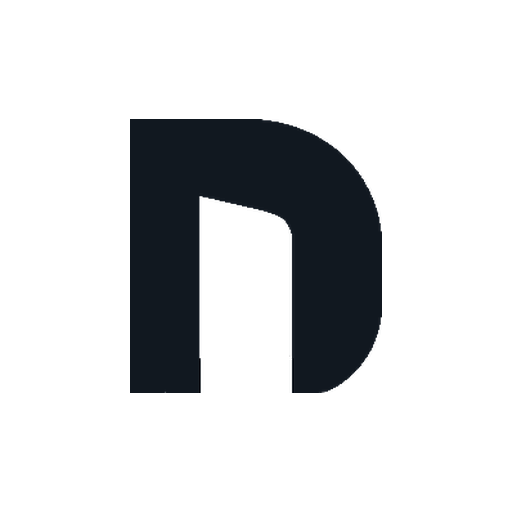
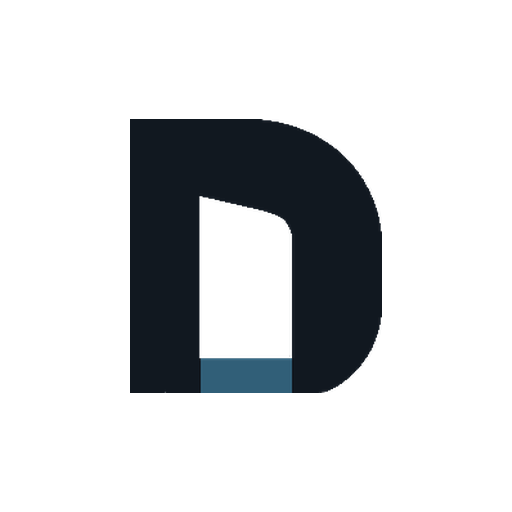
fix: use visible medium navy brand threshold

Changed region(s): [[0.375, 0.6875, 0.5938, 0.7812]]

diff --git a/src/app/root/page.tsx b/src/app/root/page.tsx
@@ -40,23 +40,23 @@ export default async function Root({searchParams}:{searchParams:Promise<{tenant?
   const selectedTenant=tenants.find(tenant=>tenant.id===selected);
   return <main className="min-h-screen bg-[#f3f7fa] pb-20 text-[#142334]">
     <header className="bg-[#101e30] text-white"><div className="container flex min-h-20 flex-wrap items-center justify-between gap-3 py-4"><Link href="/root" className="rounded-xl bg-white px-3 py-2"><DukenimLogo compact/></Link><div className="flex items-center gap-3"><span className="text-sm font-semibold text-white/75">Центр владельца платформы</span><span className="rounded-full border border-sky-300/30 bg-sky-300/10 px-3 py-1 text-xs font-bold text-sky-200">ERSAT · SUPERADMIN</span></div></div></header>
-    <div className="container py-8 md:py-12"><div className="flex flex-wrap items-end justify-between gap-4"><div><p className="text-xs font-extrabold uppercase tracking-[.18em] text-[#416888]">DUKENIM · УПРАВЛЕНИЕ</p><h1 className="mt-2 text-4xl font-extrabold tracking-tight md:text-5xl">Вся платформа перед вами</h1><p className="mt-3 max-w-2xl text-sm leading-6 text-slate-600">Магазины, заказы и обращения в одном рабочем месте. Суммы ниже рассчитаны по статусу «оплачено» в Dukenim; фактическое поступление денег проверяйте у провайдера.</p></div><a href="#stores" className="inline-flex items-center gap-2 rounded-xl bg-[#173b57] px-5 py-3 text-sm font-bold text-white">Открыть магазины <ArrowRight size={16}/></a></div>
+    <div className="container py-8 md:py-12"><div className="flex flex-wrap items-end justify-between gap-4"><div><p className="text-xs font-extrabold uppercase tracking-[.18em] text-[#416888]">DUKENIM · УПРАВЛЕНИЕ</p><h1 className="mt-2 text-4xl font-extrabold tracking-tight md:text-5xl">Вся платформа перед вами</h1><p className="mt-3 max-w-2xl text-sm leading-6 text-slate-600">Магазины, заказы и обращения в одном рабочем месте. Суммы ниже рассчитаны по статусу «оплачено» в Dukenim; фактическое поступление денег проверяйте у провайдера.</p></div><a href="#stores" className="inline-flex items-center gap-2 rounded-xl bg-[#315f78] px-5 py-3 text-sm font-bold text-white">Открыть магазины <ArrowRight size={16}/></a></div>
       <section className="mt-8 grid gap-3 sm:grid-cols-2 xl:grid-cols-4" aria-label="Показатели платформы">{[
         ["Магазинов",String(tenants.length),Building2,"Все аккаунты магазинов"],
         ["Активных",String(tenants.filter(tenant=>tenant.status==="active").length),Activity,"Доступ сейчас открыт"],
         ["Отмечено оплаченным",money(paidTotal),CircleDollarSign,"Среди последних 500 заказов"],
         ["Обращений в работе",String(openRequests.length),MessageSquare,"Среди последних 100 заявок"],
       ].map(([label,value,Icon,note])=>{const Symbol=Icon as typeof Building2;return <article key={String(label)} className="rounded-2xl border border-slate-200 bg-white p-5 shadow-sm"><div className="flex items-center justify-between text-slate-500"><span className="text-xs font-bold uppercase tracking-wider">{String(label)}</span><Symbol size={19} className="text-[#366f99]"/></div><b className="mt-6 block text-3xl tabular-nums">{String(value)}</b><p className="mt-2 text-xs text-slate-500">{String(note)}</p></article>})}</section>
-      <section className="mt-10"><div className="flex items-center justify-between"><h2 className="text-2xl font-extrabold">Разделы управления</h2><Link href="/root/management" className="text-sm font-bold text-[#173b57] underline">Все возможности</Link></div><div className="mt-4 grid gap-3 sm:grid-cols-2 xl:grid-cols-4">{destinations.map(({href,label,detail,icon:Icon})=><Link key={href} href={href} className="group flex min-h-32 flex-col justify-between rounded-2xl border border-slate-200 bg-white p-5 shadow-sm transition hover:-translate-y-0.5 hover:border-sky-400 hover:shadow-md"><div className="flex items-start justify-between"><Icon size={22} className="text-[#366f99]"/><ArrowUpRight size={17} className="text-slate-400 group-hover:text-[#173b57]"/></div><div><b className="block text-base">{label}</b><small className="mt-1 block text-slate-500">{detail}</small></div></Link>)}</div></section>
+      <section className="mt-10"><div className="flex items-center justify-between"><h2 className="text-2xl font-extrabold">Разделы управления</h2><Link href="/root/management" className="text-sm font-bold text-[#315f78] underline">Все возможности</Link></div><div className="mt-4 grid gap-3 sm:grid-cols-2 xl:grid-cols-4">{destinations.map(({href,label,detail,icon:Icon})=><Link key={href} href={href} className="group flex min-h-32 flex-col justify-between rounded-2xl border border-slate-200 bg-white p-5 shadow-sm transition hover:-translate-y-0.5 hover:border-sky-400 hover:shadow-md"><div className="flex items-start justify-between"><Icon size={22} className="text-[#366f99]"/><ArrowUpRight size={17} className="text-slate-400 group-hover:text-[#315f78]"/></div><div><b className="block text-base">{label}</b><small className="mt-1 block text-slate-500">{detail}</small></div></Link>)}</div></section>
       <div className="mt-10 grid gap-6 xl:grid-cols-[minmax(0,1.35fr)_minmax(290px,.65fr)]">
-        <section id="stores" className="rounded-2xl border border-slate-200 bg-white p-5 shadow-sm md:p-6"><div className="flex flex-wrap items-end justify-between gap-3"><div><p className="text-xs font-bold uppercase tracking-wider text-[#416888]">МАГАЗИНЫ</p><h2 className="mt-1 text-2xl font-extrabold">Список магазинов</h2></div><span className="rounded-full bg-sky-50 px-3 py-1 text-xs font-bold text-[#173b57]">{tenants.length} всего</span></div><div className="mt-5 divide-y divide-slate-100">{tenants.length?tenants.map(tenant=>{const tenantPaid=paid.filter(order=>order.tenant_id===tenant.id);return <article key={tenant.id} className="grid gap-3 py-4 md:grid-cols-[minmax(0,1fr)_auto] md:items-center"><div><div className="flex flex-wrap items-center gap-2"><b className="text-base">{tenant.name}</b><span className="rounded-full bg-slate-100 px-2 py-1 text-xs font-semibold text-slate-600">{statusLabel[tenant.status]??tenant.status}</span></div><p className="mt-1 text-xs text-slate-500">/s/{tenant.slug} · {tenant.plan==="basic"?"Старт":"Бренд"} · оплачено {money(tenantPaid.reduce((sum,order)=>sum+order.total,0))} среди последних 500 заказов</p></div><div className="flex flex-wrap gap-2"><Link href={`/root/stores/${tenant.id}`} className="inline-flex min-h-11 items-center justify-center gap-2 rounded-xl border border-sky-200 px-4 py-2 text-sm font-bold text-[#173b57] hover:bg-sky-50">Управлять <ArrowRight size={15}/></Link><Link href={`/root?tenant=${tenant.id}#support`} className="inline-flex min-h-11 items-center justify-center gap-2 rounded-xl border border-slate-200 px-4 py-2 text-sm font-bold text-[#173b57] hover:bg-slate-50">Чат</Link></div><details className="md:col-span-2"><summary className="cursor-pointer text-xs font-semibold text-slate-500">Тариф и состояние магазина</summary><form action={updateStore} className="mt-3 flex flex-wrap items-end gap-2 rounded-xl bg-slate-50 p-3"><input type="hidden" name="tenantId" value={tenant.id}/><label className="text-xs font-semibold">Тариф<select name="plan" defaultValue={tenant.plan} className="input mt-1 min-w-32"><option value="basic">Старт</option><option value="standard">Бренд</option><option value="pro">Бренд (legacy)</option></select></label><label className="text-xs font-semibold">Состояние<select name="status" defaultValue={tenant.status} className="input mt-1 min-w-36"><option value="active">Активен</option><option value="paused">Пауза</option><option value="trial">Пробный период</option></select></label><label className="min-w-44 flex-1 text-xs font-semibold">Причина<input name="reason" required minLength={3} className="input mt-1" placeholder="Причина изменения"/></label><button className="btn btn-cta">Сохранить</button></form></details></article>}) : <p className="py-8 text-sm text-slate-500">Магазинов пока нет.</p>}</div></section>
-        <aside className="space-y-6"><section className="rounded-2xl border border-slate-200 bg-white p-5 shadow-sm"><div className="flex items-center gap-2"><Headphones className="text-[#366f99]" size={22}/><h2 className="text-xl font-extrabold">Обращения</h2></div><p className="mt-2 text-sm text-slate-500">Каждое обращение открывается как отдельный диалог.</p><div className="mt-4 divide-y divide-slate-100">{openRequests.slice(0,6).map(request=><Link key={request.id} href={`/root/requests/${request.id}`} className="block py-3 hover:text-[#173b57]"><b className="line-clamp-1 text-sm">{request.subject}</b><small className="mt-1 block text-slate-500">{tenants.find(tenant=>tenant.id===request.tenant_id)?.name??"Магазин"} · {request.status==="new"?"Новое":"В работе"}</small></Link>)}{!openRequests.length&&<p className="py-4 text-sm text-slate-500">Новых обращений нет.</p>}</div></section>
+        <section id="stores" className="rounded-2xl border border-slate-200 bg-white p-5 shadow-sm md:p-6"><div className="flex flex-wrap items-end justify-between gap-3"><div><p className="text-xs font-bold uppercase tracking-wider text-[#416888]">МАГАЗИНЫ</p><h2 className="mt-1 text-2xl font-extrabold">Список магазинов</h2></div><span className="rounded-full bg-sky-50 px-3 py-1 text-xs font-bold text-[#315f78]">{tenants.length} всего</span></div><div className="mt-5 divide-y divide-slate-100">{tenants.length?tenants.map(tenant=>{const tenantPaid=paid.filter(order=>order.tenant_id===tenant.id);return <article key={tenant.id} className="grid gap-3 py-4 md:grid-cols-[minmax(0,1fr)_auto] md:items-center"><div><div className="flex flex-wrap items-center gap-2"><b className="text-base">{tenant.name}</b><span className="rounded-full bg-slate-100 px-2 py-1 text-xs font-semibold text-slate-600">{statusLabel[tenant.status]??tenant.status}</span></div><p className="mt-1 text-xs text-slate-500">/s/{tenant.slug} · {tenant.plan==="basic"?"Старт":"Бренд"} · оплачено {money(tenantPaid.reduce((sum,order)=>sum+order.total,0))} среди последних 500 заказов</p></div><div className="flex flex-wrap gap-2"><Link href={`/root/stores/${tenant.id}`} className="inline-flex min-h-11 items-center justify-center gap-2 rounded-xl border border-sky-200 px-4 py-2 text-sm font-bold text-[#315f78] hover:bg-sky-50">Управлять <ArrowRight size={15}/></Link><Link href={`/root?tenant=${tenant.id}#support`} className="inline-flex min-h-11 items-center justify-center gap-2 rounded-xl border border-slate-200 px-4 py-2 text-sm font-bold text-[#315f78] hover:bg-slate-50">Чат</Link></div><details className="md:col-span-2"><summary className="cursor-pointer text-xs font-semibold text-slate-500">Тариф и состояние магазина</summary><form action={updateStore} className="mt-3 flex flex-wrap items-end gap-2 rounded-xl bg-slate-50 p-3"><input type="hidden" name="tenantId" value={tenant.id}/><label className="text-xs font-semibold">Тариф<select name="plan" defaultValue={tenant.plan} className="input mt-1 min-w-32"><option value="basic">Старт</option><option value="standard">Бренд</option><option value="pro">Бренд (legacy)</option></select></label><label className="text-xs font-semibold">Состояние<select name="status" defaultValue={tenant.status} className="input mt-1 min-w-36"><option value="active">Активен</option><option value="paused">Пауза</option><option value="trial">Пробный период</option></select></label><label className="min-w-44 flex-1 text-xs font-semibold">Причина<input name="reason" required minLength={3} className="input mt-1" placeholder="Причина изменения"/></label><button className="btn btn-cta">Сохранить</button></form></details></article>}) : <p className="py-8 text-sm text-slate-500">Магазинов пока нет.</p>}</div></section>
+        <aside className="space-y-6"><section className="rounded-2xl border border-slate-200 bg-white p-5 shadow-sm"><div className="flex items-center gap-2"><Headphones className="text-[#366f99]" size={22}/><h2 className="text-xl font-extrabold">Обращения</h2></div><p className="mt-2 text-sm text-slate-500">Каждое обращение открывается как отдельный диалог.</p><div className="mt-4 divide-y divide-slate-100">{openRequests.slice(0,6).map(request=><Link key={request.id} href={`/root/requests/${request.id}`} className="block py-3 hover:text-[#315f78]"><b className="line-clamp-1 text-sm">{request.subject}</b><small className="mt-1 block text-slate-500">{tenants.find(tenant=>tenant.id===request.tenant_id)?.name??"Магазин"} · {request.status==="new"?"Новое":"В работе"}</small></Link>)}{!openRequests.length&&<p className="py-4 text-sm text-slate-500">Новых обращений нет.</p>}</div></section>
         {selectedTenant&&<section id="support" className="rounded-2xl border border-sky-200 bg-white p-5 shadow-sm"><h2 className="text-lg font-extrabold">Общий чат · {selectedTenant.name}</h2><p className="mt-1 text-xs text-slate-500">Для заявок с этапами откройте конкретное обращение выше.</p><div className="mt-4"><GeneralSupportChat tenantId={selectedTenant.id} messages={messages} platform/></div></section>}
         </aside>
       </div>
-      <section className="mt-8 grid gap-5 lg:grid-cols-2"><details className="rounded-2xl border border-slate-200 bg-white p-5 shadow-sm"><summary className="flex cursor-pointer items-center gap-2 font-extrabold"><Plus size={19} className="text-[#366f99]"/> Создать магазин вручную</summary><p className="mt-3 text-sm text-slate-500">Обычно владелец создаёт магазин сам. Здесь доступно ручное создание для особых случаев.</p><form action={createStore} className="mt-4 grid gap-3"><input name="name" required className="input" placeholder="Название"/><input name="slug" required className="input" placeholder="Адрес магазина"/><input name="email" type="email" required className="input" placeholder="Email владельца"/><input name="password" type="password" required minLength={8} className="input" placeholder="Временный пароль"/><div className="grid grid-cols-2 gap-2"><input aria-label="Цвет магазина" name="color" type="color" defaultValue="#173b57" className="h-12 w-full rounded-xl border p-1"/><select name="plan" className="input"><option value="basic">Старт</option><option value="standard">Бренд</option></select></div><button className="btn btn-cta">Создать магазин</button></form></details>
-      <details className="rounded-2xl border border-slate-200 bg-white p-5 shadow-sm"><summary className="flex cursor-pointer items-center gap-2 font-extrabold"><Megaphone size={19} className="text-[#366f99]"/> Промокоды платформы</summary><form action={createPromotion} className="mt-4 grid gap-3"><input name="code" required minLength={3} maxLength={32} className="input" placeholder="Код"/><input name="title" required className="input" placeholder="Название кампании"/><PromotionValue/><select name="plan" className="input"><option value="">Оба тарифа</option><option value="basic">Старт</option><option value="standard">Бренд</option></select><input name="maxRedemptions" type="number" min={1} className="input" placeholder="Лимит применений, необязательно"/><button className="btn btn-cta">Создать промокод</button></form><div className="mt-4 divide-y divide-slate-100">{promotions.map(promotion=><div key={promotion.id} className="flex items-center justify-between gap-3 py-3 text-sm"><span><b>{promotion.code}</b><small className="block text-slate-500">{promotion.title}</small></span><form action={togglePromotion}><input type="hidden" name="promotionId" value={promotion.id}/><input type="hidden" name="active" value={String(!promotion.is_active)}/><button className="font-bold text-[#173b57]">{promotion.is_active?"Отключить":"Включить"}</button></form></div>)}</div></details></section>
-      {openRequests.length>6&&<section className="mt-8 rounded-2xl border border-slate-200 bg-white p-5"><h2 className="font-extrabold">Остальные обращения</h2><div className="mt-3 grid gap-2 sm:grid-cols-2">{openRequests.slice(6,20).map(request=><div key={request.id} className="flex items-center justify-between gap-2 rounded-xl border p-3 text-sm"><span className="line-clamp-1">{request.subject}</span><Link href={`/root/requests/${request.id}`} className="font-bold text-[#173b57]">Открыть</Link><form action={completeRequest}><input type="hidden" name="requestId" value={request.id}/><button className="text-xs text-slate-500 underline">Готово</button></form></div>)}</div></section>}
+      <section className="mt-8 grid gap-5 lg:grid-cols-2"><details className="rounded-2xl border border-slate-200 bg-white p-5 shadow-sm"><summary className="flex cursor-pointer items-center gap-2 font-extrabold"><Plus size={19} className="text-[#366f99]"/> Создать магазин вручную</summary><p className="mt-3 text-sm text-slate-500">Обычно владелец создаёт магазин сам. Здесь доступно ручное создание для особых случаев.</p><form action={createStore} className="mt-4 grid gap-3"><input name="name" required className="input" placeholder="Название"/><input name="slug" required className="input" placeholder="Адрес магазина"/><input name="email" type="email" required className="input" placeholder="Email владельца"/><input name="password" type="password" required minLength={8} className="input" placeholder="Временный пароль"/><div className="grid grid-cols-2 gap-2"><input aria-label="Цвет магазина" name="color" type="color" defaultValue="#315f78" className="h-12 w-full rounded-xl border p-1"/><select name="plan" className="input"><option value="basic">Старт</option><option value="standard">Бренд</option></select></div><button className="btn btn-cta">Создать магазин</button></form></details>
+      <details className="rounded-2xl border border-slate-200 bg-white p-5 shadow-sm"><summary className="flex cursor-pointer items-center gap-2 font-extrabold"><Megaphone size={19} className="text-[#366f99]"/> Промокоды платформы</summary><form action={createPromotion} className="mt-4 grid gap-3"><input name="code" required minLength={3} maxLength={32} className="input" placeholder="Код"/><input name="title" required className="input" placeholder="Название кампании"/><PromotionValue/><select name="plan" className="input"><option value="">Оба тарифа</option><option value="basic">Старт</option><option value="standard">Бренд</option></select><input name="maxRedemptions" type="number" min={1} className="input" placeholder="Лимит применений, необязательно"/><button className="btn btn-cta">Создать промокод</button></form><div className="mt-4 divide-y divide-slate-100">{promotions.map(promotion=><div key={promotion.id} className="flex items-center justify-between gap-3 py-3 text-sm"><span><b>{promotion.code}</b><small className="block text-slate-500">{promotion.title}</small></span><form action={togglePromotion}><input type="hidden" name="promotionId" value={promotion.id}/><input type="hidden" name="active" value={String(!promotion.is_active)}/><button className="font-bold text-[#315f78]">{promotion.is_active?"Отключить":"Включить"}</button></form></div>)}</div></details></section>
+      {openRequests.length>6&&<section className="mt-8 rounded-2xl border border-slate-200 bg-white p-5"><h2 className="font-extrabold">Остальные обращения</h2><div className="mt-3 grid gap-2 sm:grid-cols-2">{openRequests.slice(6,20).map(request=><div key={request.id} className="flex items-center justify-between gap-2 rounded-xl border p-3 text-sm"><span className="line-clamp-1">{request.subject}</span><Link href={`/root/requests/${request.id}`} className="font-bold text-[#315f78]">Открыть</Link><form action={completeRequest}><input type="hidden" name="requestId" value={request.id}/><button className="text-xs text-slate-500 underline">Готово</button></form></div>)}</div></section>}
     </div>
   </main>;
 }

diff --git a/src/components/admin/holiday-ideas.tsx b/src/components/admin/holiday-ideas.tsx
@@ -6,7 +6,7 @@ export function HolidayIdeas({disabled,onDesign,onPromotion}:{disabled:boolean;o
  const[now]=useState(()=>new Date());const upcoming=nextHolidayIdeas(now);const[next]=useState(()=>{const all=nextHolidayIdeas(now,366);return all[0]??null;});
  const[custom,setCustom]=useState("");const[customDate,setCustomDate]=useState("");
  const show=(idea:HolidayIdea)=>{onDesign(holidayDesignBrief(idea));};
- return <section className="rounded-3xl border border-sky-200 bg-gradient-to-br from-[#10253d] via-[#173b57] to-[#376e97] p-5 text-white shadow-[0_20px_50px_rgba(16,37,61,.18)] md:p-6" aria-label="Календарь идей для витрины"><div className="flex flex-wrap items-start justify-between gap-3"><div><p className="flex items-center gap-2 text-xs font-bold uppercase tracking-[.17em] text-sky-200"><Sparkles size={16}/> Идея для магазина</p><h2 className="mt-2 text-xl font-extrabold md:text-2xl">Оформление к важным датам</h2><p className="mt-2 max-w-2xl text-sm leading-6 text-sky-100">За неделю до события здесь появится предложение. AI подготовит дизайн и текст; примените только то, что подходит вашему бизнесу.</p></div><CalendarDays className="text-sky-200" size={27}/></div>
+ return <section className="rounded-3xl border border-sky-200 bg-gradient-to-br from-[#10253d] via-[#315f78] to-[#376e97] p-5 text-white shadow-[0_20px_50px_rgba(16,37,61,.18)] md:p-6" aria-label="Календарь идей для витрины"><div className="flex flex-wrap items-start justify-between gap-3"><div><p className="flex items-center gap-2 text-xs font-bold uppercase tracking-[.17em] text-sky-200"><Sparkles size={16}/> Идея для магазина</p><h2 className="mt-2 text-xl font-extrabold md:text-2xl">Оформление к важным датам</h2><p className="mt-2 max-w-2xl text-sm leading-6 text-sky-100">За неделю до события здесь появится предложение. AI подготовит дизайн и текст; примените только то, что подходит вашему бизнесу.</p></div><CalendarDays className="text-sky-200" size={27}/></div>
   {upcoming.length?<div className="mt-5 grid gap-3">{upcoming.map(idea=><article key={idea.key} className="rounded-2xl border border-white/25 bg-white/12 p-4"><div className="flex flex-wrap items-center justify-between gap-2"><b>{idea.name}</b><span className="rounded-full bg-white/20 px-3 py-1 text-xs font-bold">{idea.daysUntil===0?"Сегодня":`Через ${idea.daysUntil} дн.`}</span></div><p className="mt-1 text-sm text-sky-100">{idea.hint}</p><div className="mt-3 flex flex-wrap gap-2"><button type="button" disabled={disabled} onClick={()=>show(idea)} className="rounded-xl bg-white px-4 py-2 text-sm font-bold text-[#10253d] disabled:opacity-50">Предложить дизайн</button><button type="button" disabled={disabled} onClick={()=>onPromotion(holidayPromotionBrief(idea))} className="rounded-xl border border-white/40 px-4 py-2 text-sm font-bold disabled:opacity-50">Текст кампании</button></div></article>)}</div>:<p className="mt-5 rounded-2xl border border-white/20 bg-white/10 p-4 text-sm text-sky-100">Следующая дата: <b className="text-white">{next?.name??"уточняется"}</b>. Вы можете выбрать её заранее или указать свою.</p>}
   <details className="mt-4 rounded-xl border border-white/20 p-3 text-sm"><summary className="cursor-pointer font-semibold">Календарь дат и своё событие</summary><div className="mt-3 grid gap-2 sm:grid-cols-2">{holidayIdeas.map(idea=><button type="button" key={idea.key} disabled={disabled} onClick={()=>show(idea)} className="flex justify-between gap-2 rounded-xl bg-white/10 px-3 py-2 text-left hover:bg-white/20 disabled:opacity-50"><span>{idea.name}</span><span className="text-sky-200">{String(idea.day).padStart(2,"0")}.{String(idea.month).padStart(2,"0")}</span></button>)}</div><div className="mt-4 grid gap-2 sm:grid-cols-[1fr_auto_auto]"><input className="input text-[#142334]" value={custom} onChange={event=>setCustom(event.target.value)} maxLength={60} placeholder="Ваше событие" aria-label="Название своего события"/><input className="input text-[#142334]" type="date" value={customDate} onChange={event=>setCustomDate(event.target.value)} aria-label="Дата своего события"/><button type="button" disabled={disabled||custom.trim().length<3||!customDate} onClick={()=>onDesign(`Подготовь оформление витрины к событию «${custom.trim()}» ${customDate}. Предложи согласованную палитру и текст главного экрана. Не придумывай цены, скидки, товары или наличие. Покажи черновик для подтверждения владельцем.`)} className="rounded-xl bg-white px-4 py-2 font-bold text-[#10253d] disabled:opacity-50">Подготовить</button></div></details><p className="mt-3 text-xs text-sky-100/80">Указаны основные фиксированные даты. Переносы выходных и даты по лунному календарю здесь не рассчитываются.</p></section>;
 }

diff --git a/src/components/admin/studio-conversation.module.css b/src/components/admin/studio-conversation.module.css
@@ -8,8 +8,8 @@
 .quickTasks{display:grid;gap:12px;margin-top:34px}
 .disclaimer{margin-top:16px;color:#8992a3;font-size:12px}
 .quickTasks>a,.quickTasks>button{display:grid;grid-template-columns:48px minmax(0,1fr) 22px;align-items:center;gap:16px;width:100%;min-height:92px;text-align:left;padding:16px 18px;border:1px solid #e2e6ec;border-radius:20px;background:#fff;color:#111827;box-shadow:0 1px 2px #11182708}
-.quickTasks>a:hover,.quickTasks>button:hover{border-color:#a8bed9;background:#fbfdff;box-shadow:0 8px 24px #173b570d;transform:translateY(-1px)}
-.quickTasks>a:focus-visible,.quickTasks>button:focus-visible,.composer button:focus-visible,.attachmentMenu button:focus-visible,.attachmentMenu a:focus-visible{outline:2px solid #173b57;outline-offset:2px}
+.quickTasks>a:hover,.quickTasks>button:hover{border-color:#a8bed9;background:#fbfdff;box-shadow:0 8px 24px #315f780d;transform:translateY(-1px)}
+.quickTasks>a:focus-visible,.quickTasks>button:focus-visible,.composer button:focus-visible,.attachmentMenu button:focus-visible,.attachmentMenu a:focus-visible{outline:2px solid #315f78;outline-offset:2px}
 .quickTasks b{display:block;font-size:16px;font-weight:650;line-height:1.3}.quickTasks small{display:block;margin-top:4px;color:#667085;font-size:14px;line-height:1.4}.quickTasks em{display:inline-flex;margin-top:9px;border-radius:999px;background:#f1f4f7;padding:3px 8px;color:#667085;font-size:10px;font-style:normal;font-weight:700}
 .quickTasks>a>svg,.quickTasks>button>svg{color:#667085}.taskIcon{display:grid;place-items:center;width:48px;height:48px;border-radius:15px;background:#eef5ff;color:#235ca1}.quickTasks>a:nth-child(2) .taskIcon{background:#ecfaf4;color:#178767}
 .userMessage{margin-left:auto;max-width:90%;width:fit-content;border-radius:18px 18px 4px 18px;background:#f2f4f7;color:#111827;padding:12px 16px;overflow-wrap:anywhere}
@@ -24,7 +24,7 @@
 .sendButton{background:#111827;color:#fff}.sendButton:disabled{background:#d5d9df;color:#fff}
 .attachmentMenu{position:absolute;bottom:calc(100% - 4px);left:clamp(14px,4vw,32px);display:grid;gap:3px;width:min(290px,calc(100% - 28px));padding:7px;border:1px solid #e5e7eb;border-radius:17px;background:#fff;box-shadow:0 18px 44px #11182724}
 .attachmentMenu button,.attachmentMenu>a{display:flex;align-items:center;gap:12px;padding:11px;border-radius:10px;text-align:left;font-size:14px}.attachmentMenu button:hover,.attachmentMenu>a:hover{background:#f2f4f7}.attachmentMenu button:disabled{cursor:not-allowed;opacity:.42}.menuDivider{height:1px;margin:4px;background:#e5e7eb}.menuToggle{display:flex;align-items:flex-start;gap:10px;padding:10px 11px;border-radius:10px}.menuToggle input{margin-top:3px}.menuToggle b,.menuToggle small{display:block}.menuToggle b{font-size:14px}.menuToggle small{margin-top:2px;color:#667085;font-size:11px;line-height:1.4}
-.loadingState{display:flex;align-items:center;gap:10px;margin:auto;color:#667085;font-size:14px}.loadingState>span:first-child{width:18px;height:18px;border:2px solid #d5dce5;border-top-color:#173b57;border-radius:50%;animation:studioSpin .7s linear infinite}@keyframes studioSpin{to{transform:rotate(360deg)}}
+.loadingState{display:flex;align-items:center;gap:10px;margin:auto;color:#667085;font-size:14px}.loadingState>span:first-child{width:18px;height:18px;border:2px solid #d5dce5;border-top-color:#315f78;border-radius:50%;animation:studioSpin .7s linear infinite}@keyframes studioSpin{to{transform:rotate(360deg)}}
 @media(prefers-reduced-motion:no-preference){.quickTasks>a,.quickTasks>button{transition:border-color .16s,background-color .16s,box-shadow .16s,transform .16s}}
 @media(prefers-reduced-motion:reduce){.loadingState>span:first-child{animation:none}.quickTasks>a,.quickTasks>button{transform:none!important}}
 @media(max-width:600px){.chatContent{padding-top:20px;padding-bottom:24px}.greeting{padding-top:clamp(4px,3vh,28px)}.greeting h1{font-size:30px}.greeting h2{font-size:25px}.greeting>p{margin-top:14px;font-size:14px}.quickTasks{margin-top:22px}.quickTasks>a,.quickTasks>button{min-height:78px;grid-template-columns:42px minmax(0,1fr) 20px;gap:12px;padding:12px}.taskIcon{width:42px;height:42px}.quickTasks b{font-size:15px}.quickTasks small{font-size:12px}.quickTasks em{display:none}.composerDock{padding-top:7px;padding-bottom:7px}.composer{min-height:54px}.iconButton,.sendButton{width:42px;height:42px}}

diff --git a/src/app/globals.css b/src/app/globals.css
@@ -1,9 +1,9 @@
 @import "tailwindcss";
 
 :root {
-  --accent:#173b57;--accent-dark:#0e2a40;--accent-soft:#edf4f8;--accent-bright:#173b57;
+  --accent:#315f78;--accent-dark:#274b60;--accent-soft:#edf4f8;--accent-bright:#315f78;
   --bg:#fafafa;--surface:#ffffff;--surface-2:#f5f5f5;--surface-muted:#ededed;--ink:#171717;--ink-60:#626262;--ink-40:#767676;
-  --line:#dce4ea;--cta:#173b57;--cta-dark:#0e2a40;--success:#326348;--danger:#bc3e36;--warning:#9f6926;
+  --line:#dce4ea;--cta:#315f78;--cta-dark:#274b60;--success:#326348;--danger:#bc3e36;--warning:#9f6926;
   --r-card:14px;--r-btn:10px;--tenant-accent:var(--accent);
   --shadow-sm:0 10px 28px rgb(16 23 19 / .055);--shadow-lg:0 32px 90px rgb(9 31 25 / .18);
   color-scheme:light;
@@ -301,10 +301,10 @@ section.bg-\[\#a24a34\] h2{font-size:clamp(2.5rem,5vw,4.7rem);line-height:1.02}
 .admin-store-link{justify-content:space-between;background:rgb(255 255 255/.07);color:#f6f9fc}.admin-store-link:hover{background:rgb(255 255 255/.11)}
 .admin-logout{background:transparent;color:rgb(238 247 255/.55);cursor:pointer}.admin-logout:hover{background:rgb(255 255 255/.06);color:#fff}
 .admin-topbar{background:rgb(244 248 252/.9);backdrop-filter:blur(1rem) saturate(1.15)}.admin-topbar small{display:block;margin-bottom:.15rem;color:var(--ink-60);font-size:.65rem;font-weight:850;letter-spacing:.08em;text-transform:uppercase}.admin-topbar b{font-size:.94rem;letter-spacing:-.02em}
-.admin-avatar{display:grid;flex:none;width:2.35rem;height:2.35rem;place-items:center;border-radius:.72rem;background:#173b57;color:#d7ecfa;font-size:.76rem;font-weight:900;box-shadow:inset 0 0 0 1px rgb(111 185 232/.28)}
+.admin-avatar{display:grid;flex:none;width:2.35rem;height:2.35rem;place-items:center;border-radius:.72rem;background:#315f78;color:#d7ecfa;font-size:.76rem;font-weight:900;box-shadow:inset 0 0 0 1px rgb(49 95 120/.28)}
 .admin-root-chip{display:inline-flex;align-items:center;gap:.35rem;border:1px solid var(--line);border-radius:.65rem;padding:.48rem .65rem;background:var(--surface);color:var(--ink);font-size:.72rem;font-weight:850}.admin-root-chip svg{color:var(--cta)}
 .admin-mobile-nav{position:fixed;z-index:40;right:0;bottom:0;left:0;display:grid;grid-template-columns:repeat(5,minmax(0,1fr));padding:5px 8px max(5px,env(safe-area-inset-bottom));border:1px solid #e5e7eb;border-width:1px 0 0;border-radius:0;background:rgb(255 255 255/.96);color:#667085;box-shadow:0 -4px 24px #1118270d;backdrop-filter:blur(1rem)}
-.admin-mobile-nav>a,.admin-mobile-nav>button{display:flex;min-width:0;min-height:57px;flex-direction:column;align-items:center;justify-content:center;gap:.25rem;border:0;border-radius:.8rem;padding:.4rem .2rem;background:transparent;color:#667085;font-size:.62rem;font-weight:800}.admin-mobile-nav span{max-width:100%;overflow:hidden;text-overflow:ellipsis;white-space:nowrap}.admin-mobile-nav .is-active{background:#e8f3ff;color:#173b57;box-shadow:none}
+.admin-mobile-nav>a,.admin-mobile-nav>button{display:flex;min-width:0;min-height:57px;flex-direction:column;align-items:center;justify-content:center;gap:.25rem;border:0;border-radius:.8rem;padding:.4rem .2rem;background:transparent;color:#667085;font-size:.62rem;font-weight:800}.admin-mobile-nav span{max-width:100%;overflow:hidden;text-overflow:ellipsis;white-space:nowrap}.admin-mobile-nav .is-active{background:#e8f3ff;color:#315f78;box-shadow:none}
 .admin-sheet-layer{position:fixed;z-index:60;inset:0;display:flex;align-items:flex-end;padding:.75rem;background:rgb(7 27 23/.52);backdrop-filter:blur(.45rem);animation:adminFade .18s ease-out}
 .admin-sheet{width:100%;max-height:min(84dvh,48rem);overflow:auto;border:1px solid #d8cfbf;border-radius:1.25rem;background:#f4f0e8;padding:1rem;box-shadow:0 2rem 5rem rgb(7 27 23/.35);animation:adminSheet .28s cubic-bezier(.16,1,.3,1)}
 .admin-sheet-head{display:flex;align-items:center;justify-content:space-between;border-bottom:1px solid var(--line);padding:.25rem .15rem 1rem}.admin-sheet-head small,.admin-sheet-head b{display:block}.admin-sheet-head small{color:var(--ink-60);font-size:.66rem;font-weight:850;letter-spacing:.08em;text-transform:uppercase}.admin-sheet-head b{margin-top:.2rem;font-size:1.1rem}.admin-sheet-head button{display:grid;width:2.5rem;height:2.5rem;place-items:center;border:1px solid var(--line);border-radius:.75rem;background:var(--surface);color:var(--ink)}

diff --git a/src/components/admin/general-support-chat.tsx b/src/components/admin/general-support-chat.tsx
@@ -19,7 +19,7 @@ export function GeneralSupportChat({tenantId,messages,platform=false}:{tenantId:
  useEffect(()=>{const timer=setInterval(()=>{if(document.visibilityState==="visible"&&!pending)router.refresh();},15000);return()=>clearInterval(timer);},[router,pending]);
  useEffect(()=>{const client=createClient();const channel=client.channel(`general-support:${tenantId}`).on("postgres_changes",{event:"*",schema:"public",table:"messages",filter:`tenant_id=eq.${tenantId}`},()=>{if(document.visibilityState==="visible"){void markGeneralSupportRead(tenantId).catch(()=>{});router.refresh();}}).subscribe(status=>setConnected(status==="SUBSCRIBED"));return()=>{void client.removeChannel(channel);};},[tenantId,router]);
  return <div className="space-y-4"><p className="text-xs text-slate-500">{connected?"● На связи · сообщения приходят сразу":"Обновляем переписку каждые 15 секунд"}</p>
-  <div role="log" aria-label="Общий чат магазина" className="max-h-[28rem] min-h-44 space-y-3 overflow-y-auto rounded-2xl bg-slate-50 p-3">{messages.length?messages.map(message=>{const mine=platform?message.from_role==="superadmin":message.from_role==="owner";return <article key={message.id} className={`max-w-[88%] rounded-2xl px-4 py-3 text-sm ${mine?"ml-auto bg-[#173b57] text-white":"mr-auto border border-slate-200 bg-white"}`}><p className={`text-xs ${mine?"text-sky-100/75":"text-slate-500"}`}>{message.from_role==="owner"?"Владелец магазина":"Dukenim"} · {new Date(message.created_at).toLocaleString("ru-RU")}</p><p className="mt-2 whitespace-pre-wrap break-words">{message.text}</p>{mine&&<p className="mt-2 text-right text-xs text-sky-100/80" aria-label={message.read_at?"Прочитано":"Отправлено"}>{message.read_at?"✓✓ Прочитано":"✓ Отправлено"}</p>}</article>}):<p className="py-10 text-center text-sm text-slate-500">Напишите первое сообщение.</p>}</div>
+  <div role="log" aria-label="Общий чат магазина" className="max-h-[28rem] min-h-44 space-y-3 overflow-y-auto rounded-2xl bg-slate-50 p-3">{messages.length?messages.map(message=>{const mine=platform?message.from_role==="superadmin":message.from_role==="owner";return <article key={message.id} className={`max-w-[88%] rounded-2xl px-4 py-3 text-sm ${mine?"ml-auto bg-[#315f78] text-white":"mr-auto border border-slate-200 bg-white"}`}><p className={`text-xs ${mine?"text-sky-100/75":"text-slate-500"}`}>{message.from_role==="owner"?"Владелец магазина":"Dukenim"} · {new Date(message.created_at).toLocaleString("ru-RU")}</p><p className="mt-2 whitespace-pre-wrap break-words">{message.text}</p>{mine&&<p className="mt-2 text-right text-xs text-sky-100/80" aria-label={message.read_at?"Прочитано":"Отправлено"}>{message.read_at?"✓✓ Прочитано":"✓ Отправлено"}</p>}</article>}):<p className="py-10 text-center text-sm text-slate-500">Напишите первое сообщение.</p>}</div>
   <form action={action} className="space-y-3"><input type="hidden" name="tenantId" value={tenantId}/><input type="hidden" name="messageId" value={id}/>
    {platform&&<div className="flex flex-wrap gap-2" aria-label="Быстрые ответы">{quickReplies.map((reply,index)=><button type="button" key={reply} onClick={()=>setText(reply)} className="rounded-full border border-sky-200 bg-sky-50 px-3 py-2 text-xs font-semibold text-sky-950">{["Приветствие","Проверяю","Исправлено"][index]}</button>)}</div>}
    <label className="block text-sm font-semibold">Сообщение<textarea name="text" value={text} onChange={event=>setText(event.target.value)} required minLength={2} maxLength={3000} disabled={pending} className="input mt-2 min-h-24 resize-y" placeholder="Напишите сообщение…"/></label>

diff --git a/apps/mobile/src/app/scanner.tsx b/apps/mobile/src/app/scanner.tsx
@@ -10,4 +10,4 @@ export default function Scanner() {
   if (!permission.granted) return <View style={styles.page}><Text style={styles.title}>Сканер товара</Text><Text style={[styles.text, styles.dark]}>Камера используется только после вашего разрешения.</Text><Pressable onPress={requestPermission} style={styles.button}><Text style={styles.buttonText}>Разрешить камеру</Text></Pressable><Link href="/" style={styles.link}>Назад</Link></View>;
   return <View style={styles.camera}><CameraView style={StyleSheet.absoluteFill} facing="back" barcodeScannerSettings={{ barcodeTypes:["ean13","ean8","code128","code39","upc_a","upc_e","qr"] }} onBarcodeScanned={code ? undefined : ({ data }) => setCode(data)} /><View style={styles.overlay}><Text style={[styles.title, styles.light]}>Наведите на штрихкод</Text><View style={styles.frame} /><Text style={styles.text}>{code ? `Код: ${code}` : "Код будет считан локально камерой."}</Text>{code && <Pressable onPress={() => setCode(null)} style={styles.button}><Text style={styles.buttonText}>Сканировать ещё</Text></Pressable>}<Link href="/" style={styles.link}>Закрыть</Link></View></View>;
 }
-const styles=StyleSheet.create({page:{flex:1,backgroundColor:"#FFFFFF",padding:28,justifyContent:"center",gap:16},camera:{flex:1,backgroundColor:"#071B17"},overlay:{flex:1,alignItems:"center",justifyContent:"center",padding:28,gap:18,backgroundColor:"#071B174D"},frame:{width:260,height:170,borderWidth:2,borderColor:"#FFFFFF",borderRadius:22},title:{fontSize:22,fontWeight:"800",color:"#071B17"},light:{color:"#FFFFFF"},text:{color:"#E8DFD0",textAlign:"center",lineHeight:20},dark:{color:"#56625B",textAlign:"left"},button:{backgroundColor:"#071B17",padding:15,borderRadius:14},buttonText:{color:"#FFFFFF",fontWeight:"800"},link:{color:"#173B57",fontWeight:"800"}});
+const styles=StyleSheet.create({page:{flex:1,backgroundColor:"#FFFFFF",padding:28,justifyContent:"center",gap:16},camera:{flex:1,backgroundColor:"#071B17"},overlay:{flex:1,alignItems:"center",justifyContent:"center",padding:28,gap:18,backgroundColor:"#071B174D"},frame:{width:260,height:170,borderWidth:2,borderColor:"#FFFFFF",borderRadius:22},title:{fontSize:22,fontWeight:"800",color:"#071B17"},light:{color:"#FFFFFF"},text:{color:"#E8DFD0",textAlign:"center",lineHeight:20},dark:{color:"#56625B",textAlign:"left"},button:{backgroundColor:"#071B17",padding:15,borderRadius:14},buttonText:{color:"#FFFFFF",fontWeight:"800"},link:{color:"#315F78",fontWeight:"800"}});

diff --git a/src/components/admin/admin-navigation.module.css b/src/components/admin/admin-navigation.module.css
@@ -1,14 +1,14 @@
 .shell :global(.admin-mobile-nav){grid-template-columns:repeat(4,minmax(0,1fr));right:0;bottom:0;left:0;max-width:none;margin:0;padding:5px 8px max(5px,env(safe-area-inset-bottom));border:1px solid #e5e7eb;border-width:1px 0 0;border-radius:0;background:#fffffff5;box-shadow:0 -4px 24px #1118270d;backdrop-filter:blur(20px);color:#667085}
 .shell :global(.admin-mobile-nav)>a,.shell :global(.admin-mobile-nav)>button{min-height:57px;gap:4px;border-radius:13px;color:#667085;font-size:11px;font-weight:650;position:relative}
-.shell :global(.admin-mobile-nav .is-active){background:#e8f3ff;color:#173b57;box-shadow:none}
-.shell :global(.admin-mobile-nav)>a:focus-visible,.shell :global(.admin-mobile-nav)>button:focus-visible{outline:2px solid #173b57;outline-offset:2px}
+.shell :global(.admin-mobile-nav .is-active){background:#e8f3ff;color:#315f78;box-shadow:none}
+.shell :global(.admin-mobile-nav)>a:focus-visible,.shell :global(.admin-mobile-nav)>button:focus-visible{outline:2px solid #315f78;outline-offset:2px}
 .shell :global(.admin-sheet-layer){background:#00000059;backdrop-filter:blur(8px);padding:12px 12px max(12px,env(safe-area-inset-bottom))}
 .shell :global(.admin-sheet){background:#f5f5f5;border-color:#e1e1e1;border-radius:28px;box-shadow:0 24px 70px #00000040;padding:20px;overscroll-behavior:contain}
 .shell :global(.admin-sheet)::before{content:"";display:block;width:36px;height:4px;margin:0 auto 18px;border-radius:4px;background:#c3c3c3}
 .shell :global(.admin-sheet nav)>a{background:white;border-color:#e5e5e5;min-height:72px;font-weight:600;border-radius:16px;grid-template-columns:24px minmax(0,1fr) 12px;font-size:13px}
 .shell :global(.admin-sheet nav)>a>svg:first-child{color:#383838}
 .shell :global(.admin-sheet nav)>a:global(.is-active){background:#e2f2fc;border-color:#6eaad0}
-.shell :global(.admin-sheet-actions)>a{background:#173b57;color:white;border-radius:14px}
+.shell :global(.admin-sheet-actions)>a{background:#315f78;color:white;border-radius:14px}
 .shell :global(.admin-sheet-actions)>a:first-child svg{color:#d5d5d5}
 .shell :global(.admin-sheet a):focus-visible,.shell :global(.admin-sheet button):focus-visible{outline:2px solid #171717;outline-offset:3px}
 .mark{display:none}

diff --git a/src/app/admin/ai-studio/studio.module.css b/src/app/admin/ai-studio/studio.module.css
@@ -3,7 +3,7 @@
 .conversationWorkspace{flex:1;min-height:0;margin-top:0;display:flex;flex-direction:column;overflow:hidden}
 .optionalTask{border:1px solid #e5e7eb;border-radius:18px;background:#fff;padding:14px 16px;min-width:0}.optionalTask>summary{cursor:pointer;font-size:14px;font-weight:600;color:#243b53}.optionalTask[open]>summary{margin-bottom:15px}
 .designPanel{display:grid;gap:16px;min-width:0}.designPanel>p{font-size:13px;line-height:1.6;color:#626262}.designPanel>button{justify-self:start}.designPanel details{font-size:13px;line-height:1.7;color:#626262}.designPanel summary{cursor:pointer;color:#333}.designPanel details p{margin-top:10px}.designPanel+button{display:block;margin-top:16px;padding:12px 16px;border:1px solid #d4d4d4;border-radius:12px;background:#fff;color:#333}
-.resultHeading{display:flex;align-items:center;gap:12px}.resultHeading>span:last-child{min-width:0}.resultHeading b,.resultHeading small{display:block}.resultHeading small{margin-top:2px;color:#667085;font-size:11px}.resultIcon{display:grid;width:40px;height:40px;place-items:center;border-radius:13px;background:#edf4f8;color:#173b57}.resultActions{display:flex;flex-wrap:wrap;gap:10px}.resultActions .btn{min-height:42px}
+.resultHeading{display:flex;align-items:center;gap:12px}.resultHeading>span:last-child{min-width:0}.resultHeading b,.resultHeading small{display:block}.resultHeading small{margin-top:2px;color:#667085;font-size:11px}.resultIcon{display:grid;width:40px;height:40px;place-items:center;border-radius:13px;background:#edf4f8;color:#315f78}.resultActions{display:flex;flex-wrap:wrap;gap:10px}.resultActions .btn{min-height:42px}
 .setupFlow{max-width:920px;margin:18px auto;background:#fff;padding:clamp(16px,3vw,28px)}
 .setupFlow :global(.catalog-wizard){background:transparent}
 .setupFlow { border:1px solid #e5e5e5; border-radius:24px; }

diff --git a/src/components/admin/catalog-publication.tsx b/src/components/admin/catalog-publication.tsx
@@ -8,7 +8,7 @@ type PublicationChecks={product:boolean;fulfilment:boolean;tariff:boolean};
 export function CatalogPublication({checks}:{checks:PublicationChecks}){
  const [pending,setPending]=useState(false),[error,setError]=useState("");const router=useRouter();
  const ready=checks.product&&checks.fulfilment&&checks.tariff;
- return <details open={error?true:undefined} className="mb-2 overflow-hidden rounded-2xl border border-[#cfd9e4] bg-white shadow-[0_10px_34px_#173b5712]" aria-label="Проверка и публикация">
+ return <details open={error?true:undefined} className="mb-2 overflow-hidden rounded-2xl border border-[#cfd9e4] bg-white shadow-[0_10px_34px_#315f7812]" aria-label="Проверка и публикация">
   <summary className="flex min-h-12 cursor-pointer list-none items-center gap-3 px-4 py-2 [&::-webkit-details-marker]:hidden">
    <span className={`grid size-8 shrink-0 place-items-center rounded-full ${ready?"bg-emerald-50 text-emerald-700":"bg-amber-50 text-amber-700"}`}>{ready?<Rocket size={16}/>:<AlertCircle size={16}/>}</span>
    <span className="min-w-0 flex-1"><b className="block truncate text-sm">{ready?"Магазин готов к публикации":"Завершите запуск магазина"}</b><small className="block truncate text-[11px] text-neutral-500">{ready?"Откройте витрину покупателям":"Нажмите, чтобы увидеть недостающие шаги"}</small></span>

diff --git a/apps/mobile/src/lib/theme.ts b/apps/mobile/src/lib/theme.ts
@@ -1,6 +1,6 @@
 export const colors = {
-  navy: "#173B57",
-  navyDark: "#0E2A40",
+  navy: "#315F78",
+  navyDark: "#274B60",
   navySoft: "#EDF4F8",
   ink: "#111820",
   stone: "#FFFFFF",

diff --git a/scripts/build_current_brand_assets.py b/scripts/build_current_brand_assets.py
@@ -9,9 +9,9 @@ MOBILE = ROOT / "apps" / "mobile" / "assets" / "images"
 
 INK = (17, 24, 32, 255)
 WHITE = (255, 255, 255, 255)
-# The owner chose a white doorway threshold and white icon background. Keep
-# the approved D silhouette and restrict the change to that threshold only.
-THRESHOLD = WHITE
+# The owner chose a visible medium navy doorway threshold on a white icon
+# background. Keep the approved D silhouette and change that threshold only.
+THRESHOLD = (49, 95, 120, 255)
 ICON_BACKGROUND = WHITE
 
 # The approved 196x213 alpha silhouette is the geometry source. The accent is

diff --git a/docs/BRAND_CURRENT.md b/docs/BRAND_CURRENT.md
@@ -4,12 +4,12 @@
 
 - Сохранить существующую геометрию официального знака D, включая нижнюю ступеньку.
 - Знак и слово: тёмные на светлом фоне, белые на тёмном.
-- Плоский порог непосредственно внутри дверного проёма — белый. Боковые скосы и остальное основание буквы D остаются цветом основной формы.
+- Плоский порог непосредственно внутри дверного проёма — средний тёмно-синий `#315F78`. Боковые скосы и остальное основание буквы D остаются чёрными на белом фоне.
 - Шрифт сайта — Manrope; пропорции и расположение логотипа не менять.
 - Нельзя заменять знак обычной текстовой буквой D, перерисовывать его силуэт или менять пропорции.
 
 ## Статус переноса
 
-Общий веб-компонент использует экспорт исходного официального PNG с сохранённой альфой и геометрией. На светлом фоне основная форма тёмная, а нижний порог белый; инверсный вариант остаётся полностью белым.
+Общий веб-компонент использует экспорт исходного официального PNG с сохранённой альфой и геометрией. На светлом фоне основная форма чёрная, фон белый, а нижний порог — `#315F78`; инверсный вариант сохраняет ту же геометрию.
 
 Старые PDF `output/pdf/Dukenim_Brandbook_2026.pdf` и `dukenim-brandbook.pdf` остаются историческими по цвету. Текущие web/mobile assets сохраняют их точную геометрию, но применяют новый тёмно-синий порог. Встроенные логотипы в старых видео отдельно не пересобирались.
